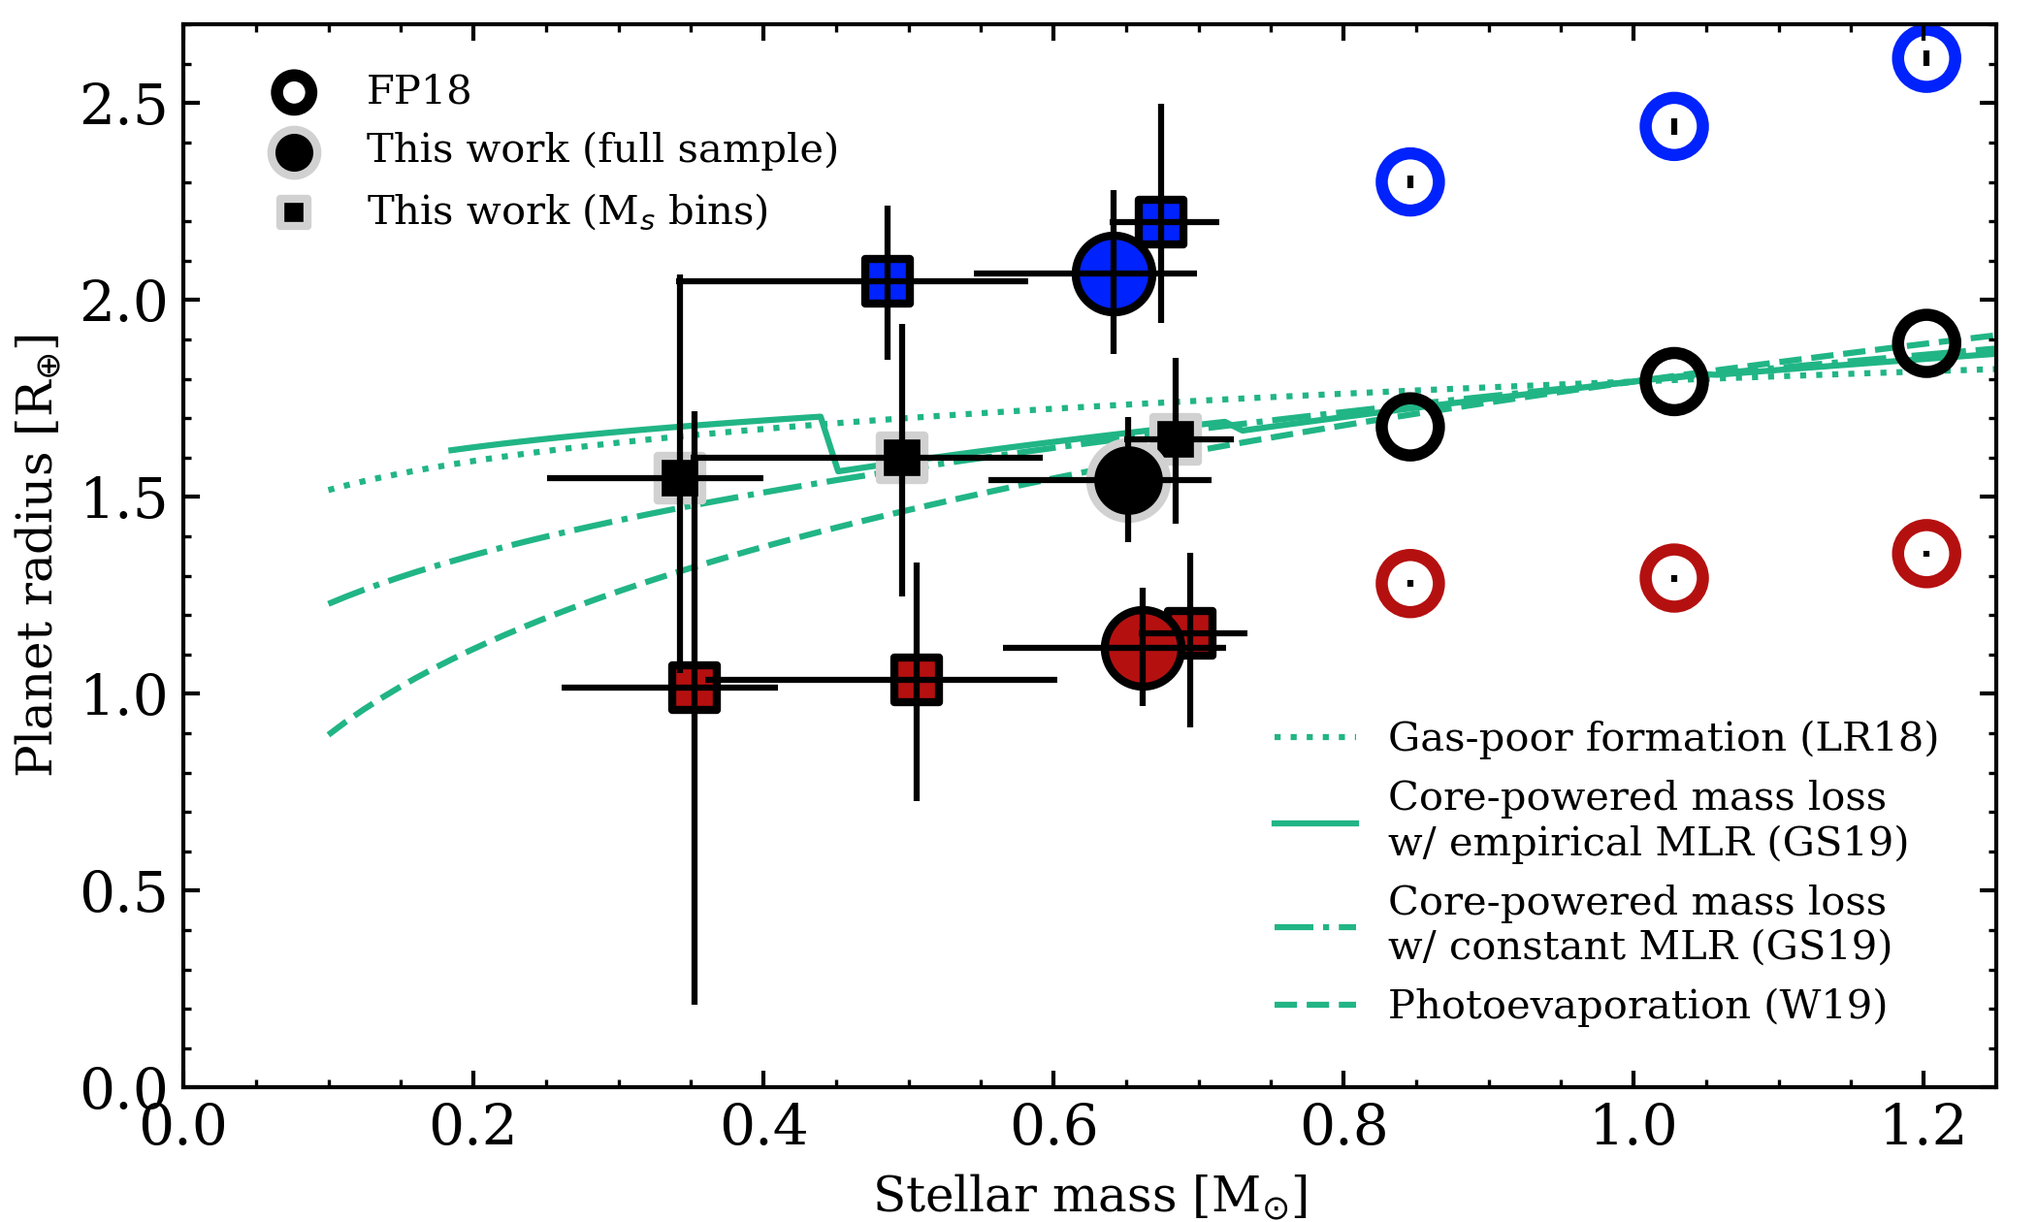
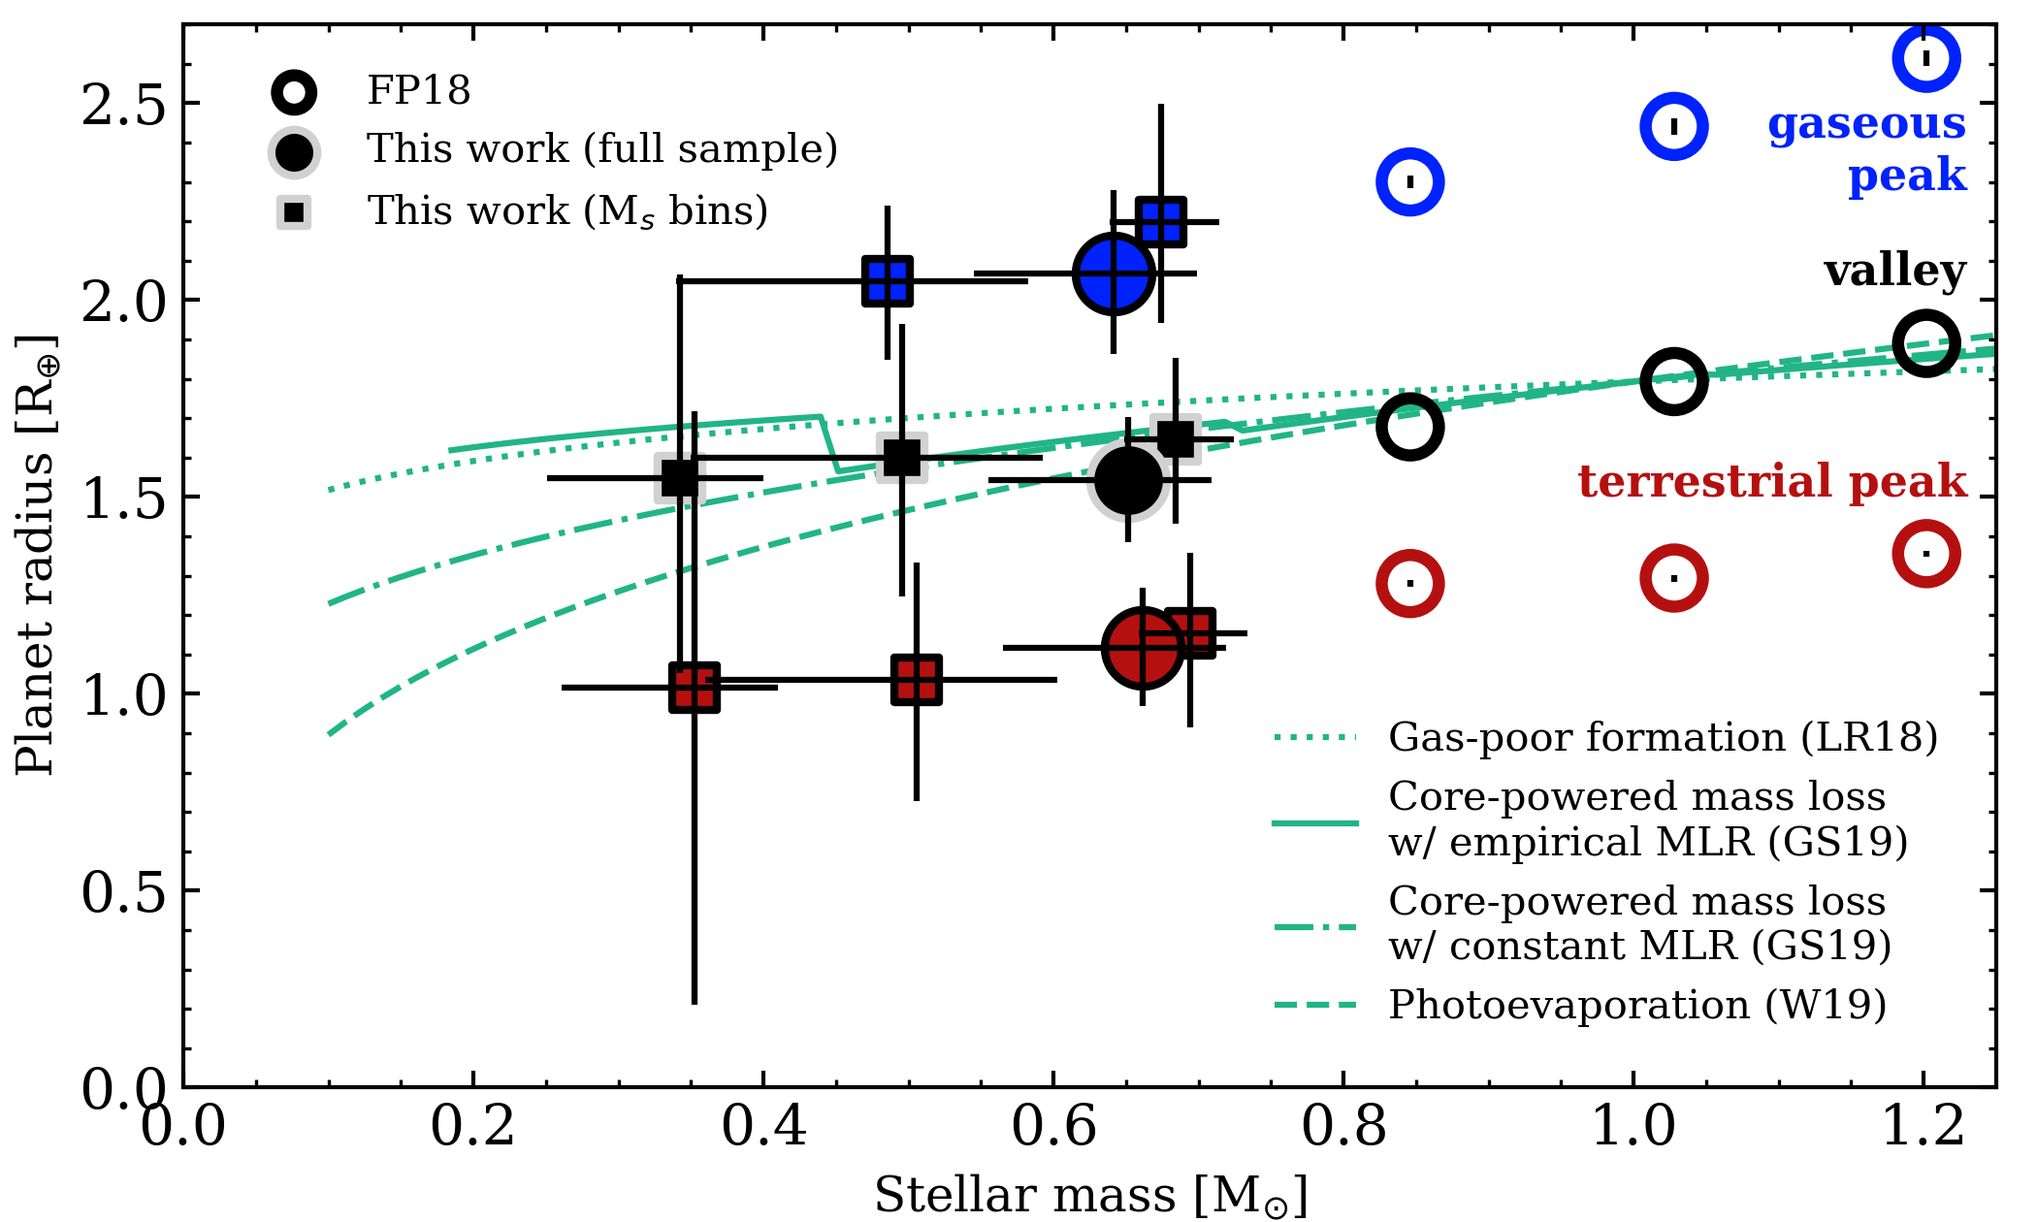
editted up to section 7

Changed region(s): [[0.7738, 0.3714, 0.9595, 0.4333], [0.8667, 0.0929, 0.9595, 0.1548], [0.8976, 0.1857, 0.9595, 0.2476]]

diff --git a/radvalley.tex b/radvalley.tex
@@ -937,17 +937,19 @@ around low mass stars, or that the efficiency of atmospheric post processing wea
   gas-poor terrestrial planet formation to the emergence of the radius valley around low mass stars.}
 
 \subsection{Planet populations versus stellar mass} \label{sect:Msbin}
-In addition to calculating the occurrence rates $f_{ij}$ among our full stellar sample, we also consider
+In addition to calculating the occurrence rates $f_{ij}$ among our full stellar sample, here we consider
 the evolution of the planet population in unique host stellar mass bins. Fig.~\ref{fig:rphistcomp} shows
-the MAP $f_{ij}$ maps in $P-r_p$ space, and the marginalized $f_j$ distributions, in four stellar mass bins
+the MAP $f_{ij}$ maps in $P-r_p$ space and the marginalized $f_j$ distributions in four stellar mass bins
 representing our full stellar sample
 ($M_s \in [0.08,0.93]$ M$_{\odot}$), the massive half of the sample ($M_s>0.65$ M$_{\odot}$),  
 the low mass half of the sample ($M_s<0.65$ M$_{\odot}$), and a subset of the latter focusing on
 increasingly lower mass stars ($M_s<0.42$ M$_{\odot}$). The statistically significant resolution of the
-radius valley in the $f_j$ occurrence rates is only accomplished with the full stellar sample. The reduction
-of the sample size in the three remaining mass bins inflates the $f_j$ uncertainties such that the valley
-is observed at $<1\sigma$ and hence not significant. However, the characteristic bimodality is exhibited in the
-MAP $f_{ij}$ of the full and massive half stellar samples. Furthermore, their $f_{ij}$ structures are similar
+radius valley in the $f_j$ occurrence rates is only accomplished in the full stellar sample. The reduction
+of the sample size in the three remaining $M_s$ bins inflates the $f_j$ uncertainties such that the valley
+is observed at $<1\sigma$ and hence not significant. However, the characteristic bimodality continues to be
+exhibited in the
+MAP $f_{ij}$ for the more massive half of our stellar sample. Furthermore, the $f_{ij}$ structures from
+the full and massive samples are similar
 as the majority of our full planet sample orbit stars more massive than the median stellar mass of 0.65
 M$_{\odot}$ (i.e. $\sim 62$\% of our confirmed planet sample).
 
@@ -956,12 +958,12 @@ M$_{\odot}$ (i.e. $\sim 62$\% of our confirmed planet sample).
   \includegraphics[width=.98\hsize]{figures/rphist_compMs.png}
   \caption{2D and 1D planet occurrence rates in various stellar mass bins. \emph{Top panels}: planet occurrence
     rate maps as a function of orbital period and planet radius. \emph{Bottom panels}: distributions of the relative
-    planet occurrence rate as a function of planet size. Note the differing occurrence rate scales.
+    planet occurrence rate as a function of planet radius. Note the differing occurrence rate scales.
     Each column corresponds to a unique cut in stellar masses
-    which represent the full stellar sample ($M_s \in [0.08,0.93]$ M$_{\odot}$), the early half of the stellar sample
-    ($M_s \in [0.65,0.93]$ M$_{\odot}$), the late half of the stellar sample ($M_s \in [0.08,0.65]$ M$_{\odot}$),
-    and the low mass bin ($M_s \in [0.08,0.42]$ M$_{\odot}$) depicting a subset of the late half of the stellar sample.
-    The relative occurrence of terrestrial to gaseous planets appears to increase around lower mass stars.}
+    which represent the full stellar sample ($M_s \in [0.08,0.93]$ M$_{\odot}$), the massive half of the stellar sample
+    ($M_s \in [0.65,0.93]$ M$_{\odot}$), the low mass half of the stellar sample ($M_s \in [0.08,0.65]$ M$_{\odot}$),
+    and the lowest mass bin ($M_s \in [0.08,0.42]$ M$_{\odot}$) depicting a subset of the low mass half of the stellar
+    sample. Terrestrial planets appear to increase in prominence around lower mass stars.}
   \label{fig:rphistcomp}
 \end{figure*}
 
@@ -976,7 +978,8 @@ frequency of terrestrial to gaseous planets in each stellar mass bin are reporte
 for fixed definitions of $r_p \in [1,1.6]$ R$_{\oplus}$ and $r_p \in [1.6,2.5]$ R$_{\oplus}$ respectively. The inner
 limit of 1 R$_{\oplus}$ restricts this analysis to where the detection sensitivity is still informative. The outer
 limit of 2.5 R$_{\oplus}$ is chosen such that the full width at half maximum of the gaseous planet peak in the
-$f_j$ distribution from the full stellar sample is approximately identical for each peak (Fig.~\ref{fig:rphist}).
+$f_j$ distribution from the full stellar sample is approximately identical for each peak (Fig.~\ref{fig:rphist})
+but is still somewhat arbitrary.
 
 \input{reltable}
 
@@ -986,8 +989,8 @@ that gaseous planets are nearly twice as common as terrestrial planets
 around mid to late K dwarfs ($M_s \in [0.65,0.93]$ M$_{\odot}$) while the relative frequency approaches unity
 around the full suite of M dwarfs ($M_s \in [0.08,0.65]$ M$_{\odot}$). Focusing on mid-to-late M dwarfs only in
 the lowest stellar mass bin considered, terrestrial planets become much more prominent as they outnumber gaseous
-planets by a factor of $8.46\pm 4.62$. This result is broadly
-consistent the calculations of \cite{hardegree19} who find that terrestrial-sized 
+planets by a factor of $\sim 8.5\pm 4.6$. This result is broadly
+consistent with the calculations from \cite{hardegree19} who find that terrestrial-sized 
 planets ($r_p \in[0.5,1.5]$ R$_{\oplus}$) are about $4-5$ times as common as gaseous planets ($r_p \in [1.5,2.5]$
 R$_{\oplus}$) around M3-5.5 dwarfs ($M_s \in [0.12,0.38]$ M$_{\odot}$). 
 Our calculations provide supporting evidence for an increase in the frequency of close-in terrestrial planets
@@ -996,36 +999,48 @@ regime. More robust statements regarding the absolute occurrence rate of terrest
 M dwarfs will require a larger stellar sample in transit surveys with sensitivity to wider separations out to
 hundreds of days where giant planets begin to emerge around these stars \citep{bonfils13,morales19}.
 
+Although our data show a significant increase in the relative occurrence of terrestrial to gaseous planets
+around increasingly lower mass stars, we are unable to firmly identify the cause of this trend with these data.
+That is that there are two outstanding hypotheses that cannot be ruled out by our data. The first scenario
+requires the preferential formation of terrestrial planets around low mass stars such that atmospheric processing
+by photoevaporation, core-powered mass loss, or impact erosion, have little to no effect. The alternative scenario
+is that planet formation processes around low mass stars continues to produce gaseous planets with significant
+primordial atmospheres that are subsequently stripped by any of the aforementioned processes. The slope of the
+valley measured from Fig.~\ref{fig:fmapF} suggests that the former scenario is important but our calculations of
+the occurrence rates in various stellar mass bins are unable to solely confirm or reject any physical mechanism
+at this time. 
+
 
 \subsection{Dependence of radius valley features on stellar mass}
 Here we measure the locations and uncertainties of features in the radius valley in each of the stellar
 mass bins considered in Sect.~\ref{sect:Msbin}. For each stellar mass bin
-we measure the frequency-weighted central radius of the terrestrial planet peak,
+we measure the occurrence rate-weighted radius of the terrestrial planet peak,
 the gaseous planet peak (where applicable), and the radius valley. The uncertainties in the feature locations
 are largely determined by uncertainties in the measured occurrence rates but are also directly affected by
-the following hyperparameters: the $f_{ij}$ smoothing parameter, the minimum detection sensitivity,
+the following hyperparameters: the $f_{ij}$ smoothing parameter, the minimum detection sensitivity still
+considered reliable,
 the $P$ bin width, the $r_p$ bin width, and the imposed upper and
 lower $P$ and $r_p$ limits on each peak. The upper and lower $r_p$ limits are defined based on the visual
 inspection of the $f_{ij}$ maps in Fig.~\ref{fig:rphistcomp} and are used to demarcate the
-boundaries of each peak, and by extension, the valley separating the peaks.
+boundaries of each peak---and by extension---the valley separating the peaks.
 As an example, if the prescribed boundaries on the terrestrial peak are set to 1-50 days and 0.8-1.4 R$_{\oplus}$,
 then only the occurrence rates over that subset of the $P-r_p$ parameter space are used to calculate the
-$f_j$-weighted terrestrial peak radius. The range of boundary values for each peak are listed in
+$f_{ij}$-weighted terrestrial peak radius. The range of boundary values for each peak are listed in
 Table~\ref{tab:bounds}. In practice, we derive $10^3$ realizations of each $f_{ij}$ map with each realization
 having a unique set of the aforementioned hyperparameters.
 The resulting $f_{ij}$ maps are marginalized over $P$ and the $f_j$-weighted radius of
-each peak is computed over the domain bounded by the relevant hyperparameters (see Table~\ref{tab:bounds}).
+each peak is computed over the domain bounded by the relevant hyperparameters.
 The same is done for the radius valley using the inverse occurrence rates.
 
 \input{boundstable}
 
 The resulting locations of each radius peak and valley are depicted in Fig.~\ref{fig:rpvMs} as a function of
 stellar mass. The locations and uncertainties are also given explicitly in Table~\ref{tab:rpvMs}.
-The depicted $M_s$ values are represented by the median stellar mass within the bin and whose
+The depicted $M_s$ values are represented by the median stellar mass within each bin and whose
 uncertainties are derived from the $16^{\text{th}}$ and $84^{\text{th}}$ percentiles. In computing the
 feature locations we assume that the bimodal $r_p$ distribution is present in all stellar mass bins
 aside from the lowest mass bin (see Fig.~\ref{fig:rphistcomp}). In the lowest stellar mass bin we
-only measure the central radius of the terrestrial planet peak and its edge which marks the transition from
+only measure the location of the terrestrial planet peak and its edge which marks the transition from
 terrestrial to gaseous planets despite the latter being inherently rare around these types of stars.
 
 \input{rpvMstable}
@@ -1057,39 +1072,40 @@ terrestrial to gaseous planets despite the latter being inherently rare around t
 
 
 The measured feature radii are compared to those measured in \cite{fulton18} around Sun-like stars with
-$M_s <0.97$, $\in [0.97,1.11]$, and $>1.11$ M$_{\odot}$.
+$M_s <0.97$ M$_{\odot}$, $M_s \in [0.97,1.11]$ M$_{\odot}$, and $M_s >1.11$ M$_{\odot}$.
 Most notably, the location of each feature measured from our full stellar sample continues the trend of monotonically
 decreasing towards smaller $r_p$ with decreasing $M_s$. The slopes of this decrease for the terrestrial and gaseous
-planet peaks measured with the three points from \cite{fulton18} and the measurement from our full stellar sample
+planet peaks measured with the three points from \cite{fulton18} and from our full stellar sample
 are $\text{d}r_{p,\text{terr}} / \text{d}M_s = 0.40$ and $\text{d}r_{p,\text{gas}} / \text{d}M_s = 0.97$
 respectively. The relative slopes indicate that the most common size of
 gaseous planet decreases more steeply with $M_s$ than the typical size of terrestrial planets. This trend
 is indicative of the effective disappearance of gaseous planets around increasingly lower mass stars
-(see Table~\ref{tab:rel}) while terrestrial-sized planets appear to persist.
-Furthermore, the reduced slope of the terrestrial peak may be evidence of
+(see Fig.~\ref{fig:rphistcomp}) while terrestrial-sized planets appear to persist.
+Furthermore, the reduced slope of the terrestrial peak may be evidence for
 a characteristic planetary core size of $\approx 1$ R$_{\oplus}$ although its exact location is largely uncertain
 due to the limited detection sensitivity to sub-Earth-sized planets.   
 
 Models of the formation of the radius valley based upon photoevaporation \citep{wu19}, gas-poor formation \citep{lopez18},
 and core-powered mass loss \citep{gupta19b} all make explicit predictions for the evolution of the radius valley location
 with stellar mass. Predictions from the core-powered mass loss scenario are dependent on the stellar mass-luminosity
-relation (MLR) $L_s \propto M_s^{\alpha}$. In Fig.~\ref{fig:rpvMs}, we consider cases with a constant MLR with $\alpha=5$
+relation (MLR) $L_s \propto M_s^{\alpha}$. In Fig.~\ref{fig:rpvMs} we consider cases with a constant MLR with $\alpha=5$
 \citep{gupta19b} and with the empirically-derived piecewise MLR from \cite{eker18}. All models predict a decreasing
 radius valley with decreasing stellar mass but differ in their slopes. 
 At the median stellar mass of our full stellar sample ($0.65$ M$_{\odot}$), the measured location of the radius valley is
-$1.54\pm 0.16$ R$_{\oplus}$. This value favors a steep $\text{d}r_{p,\text{valley}} / \text{d}M_s$ slope although we are
+$1.54\pm 0.16$ R$_{\oplus}$. This value---combined with measurements from Sun-like stars---favors
+a steep $\text{d}r_{p,\text{valley}} / \text{d}M_s$ slope although we are
 unable to distinguish between competing physical models given the measurement uncertainties.
 Fortunately, the model predictions continue to diverge
 with decreasing stellar mass such that measurements of the valley location in decreasing $M_s$ bins may be used to
 rule out the operation of certain physical mechanisms in the low stellar mass regime. Athough the trend of decreasing
-median feature radii with decreasing stellar mass appears to be upheld, the poor counting statistics in the reduced
+feature radii with decreasing stellar mass appears to be upheld, the poor counting statistics in the reduced
 $M_s$ bins prevent any significant inference regarding the relative strength of the competing physical mechanisms.
 This problem can only be addressed by increasing the number of mid-to-late M dwarfs in transit surveys and by maximizing
-the detection sensitivity to planets spanning the radius valley.
+the detection sensitivity to planets spanning the radius valley (see Sect.~\ref{sect:improve}).
 
 
 \section{Discussion} \label{sect:discussion}
-\subsection{Improving constraints on the occurrence rate of small close-in planets orbiting mid-M dwarfs}
+\subsection{Improving constraints on the occurrence rate of small close-in planets orbiting mid-M dwarfs} \label{sect:improve}
 The issue of having insufficient information to distinguish between photoevaporation, core-powered mass loss, and gas-poor
 formation around low mass stars can be addressed with two steps. Firstly, by expanding the low mass stellar sample in 
 transiting planet searches and secondly, by quantifying the detection sensitivity in those searches. 
@@ -1127,22 +1143,6 @@ cadence is increased. Note that the improvement allotted by \tess{} should only 
 approximation given that its detection sensitivity has not been adequately characterized. In our calculations, the
 \tess{} detection sensitivity is estimated as a constant value as described in the preceding paragraph. 
 
-We define a target measurement precision as that which is required to distinguish between predictions from photoevaporation
-and core-powered mass loss (assuming an empirical mass-luminosity relation) at $3\sigma$ around low mass stars with a median
-stellar mass of 0.35 M$_{\odot}$. Based on the model curves in Fig.~\ref{fig:rpvMs},
-this required precision corresponds to a radius vally uncertainty of $\sim 0.12$ R$_{\oplus}$. A very similar level
-of precision would be required to distinguish between photoevaporation and gas-poor formation as well.
-The approximate \tess{} detection sensitivity implies that \tess{} will be required to observe $\sim 85,000$ mid-to-late M dwarfs
-to distinguish between model predictions of photoevaporation and core-powered mass low or gas-poor formation at $3\sigma$.
-At the time of writing, only 23051 such stars have been targeted with 2 minute cadence. Extrapolating to end of \tess{'s}
-primary mission, we expect a total of $\sim 42,000$ such stars to be observed with 2 minute cadence. If the \tess{} detection
-sensitivity is well-characterized by that time and is roughly consistent with the approximate value assumed here then \tess{}
-could achieve a radius valley uncertainty of $\sim 0.17$ R$_{\oplus}$ by the end of its prime mission.
-This would still be useful for constraining radius valley formation models as predictions from photoevaporation and
-core-powered mass loss, or gas-poor formation, could be distingiushed at $\sim 2.1\sigma$ with this level of precision.
-Note that these calculations do not include non-CTL stars that may be targeted in the 30 minute \tess{} Full Frame Images
-and could also contribute to occurrence rate measurements. Albeit with a reduced detection sensitivity.
-
 \begin{figure*}
   \centering
   \includegraphics[width=0.98\hsize]{figures/rpuncertainty_TESSv2.png}
@@ -1158,6 +1158,23 @@ and could also contribute to occurrence rate measurements. Albeit with a reduced
     PLATO Input Catalog.}
   \label{fig:improve}
 \end{figure*}
+
+
+We define a target measurement precision as that which is required to distinguish between predictions from photoevaporation
+and core-powered mass loss (assuming an empirical mass-luminosity relation) at $3\sigma$ around low mass stars with a median
+stellar mass of 0.35 M$_{\odot}$. Based on the model curves in Fig.~\ref{fig:rpvMs},
+this required precision corresponds to a radius vally uncertainty of $\sim 0.12$ R$_{\oplus}$. A very similar level
+of precision would be required to distinguish between photoevaporation and gas-poor formation as well.
+The approximate \tess{} detection sensitivity implies that \tess{} will be required to observe $\sim 85,000$ mid-to-late M dwarfs
+to distinguish between model predictions of photoevaporation and core-powered mass low or gas-poor formation at $3\sigma$.
+At the time of writing, only 23051 such stars have been targeted with 2 minute cadence. Extrapolating to end of \tess{'s}
+primary mission, we expect a total of $\sim 42,000$ such stars to be observed with 2 minute cadence. If the \tess{} detection
+sensitivity is well-characterized by that time and is roughly consistent with the approximate value assumed here then \tess{}
+could achieve a radius valley uncertainty of $\sim 0.17$ R$_{\oplus}$ by the end of its prime mission.
+This would still be useful for constraining radius valley formation models as predictions from photoevaporation and
+core-powered mass loss, or gas-poor formation, could be distingiushed at $\sim 2.1\sigma$ with this level of precision.
+Note that these calculations do not include non-CTL stars that may be targeted in the 30 minute \tess{} Full Frame Images
+and could also contribute to occurrence rate measurements. Albeit with a reduced detection sensitivity.
 
 Also included in Fig.~\ref{fig:improve} is the curve for a hypothetical continuation of the primary \kepler{} mission.
 The calculation reveals that had \kepler{} been able to continue its prime mission and had
